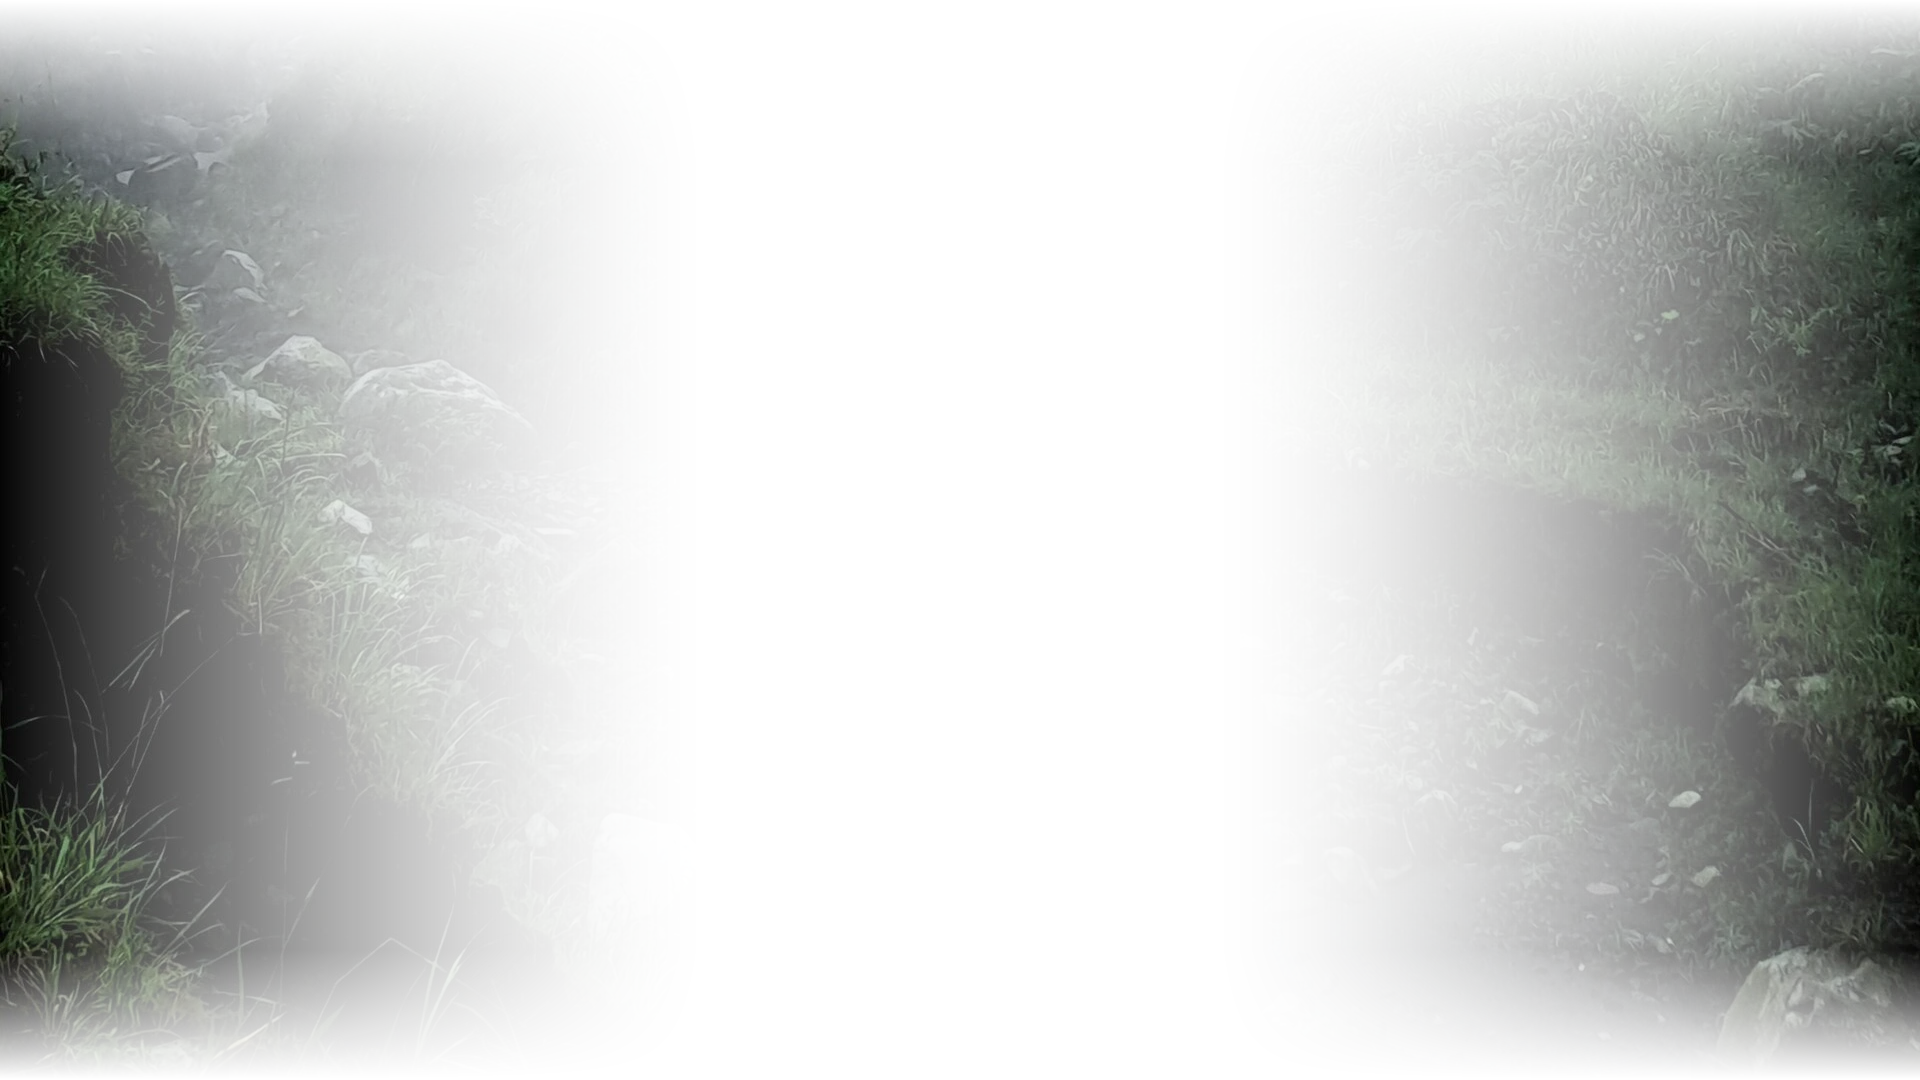
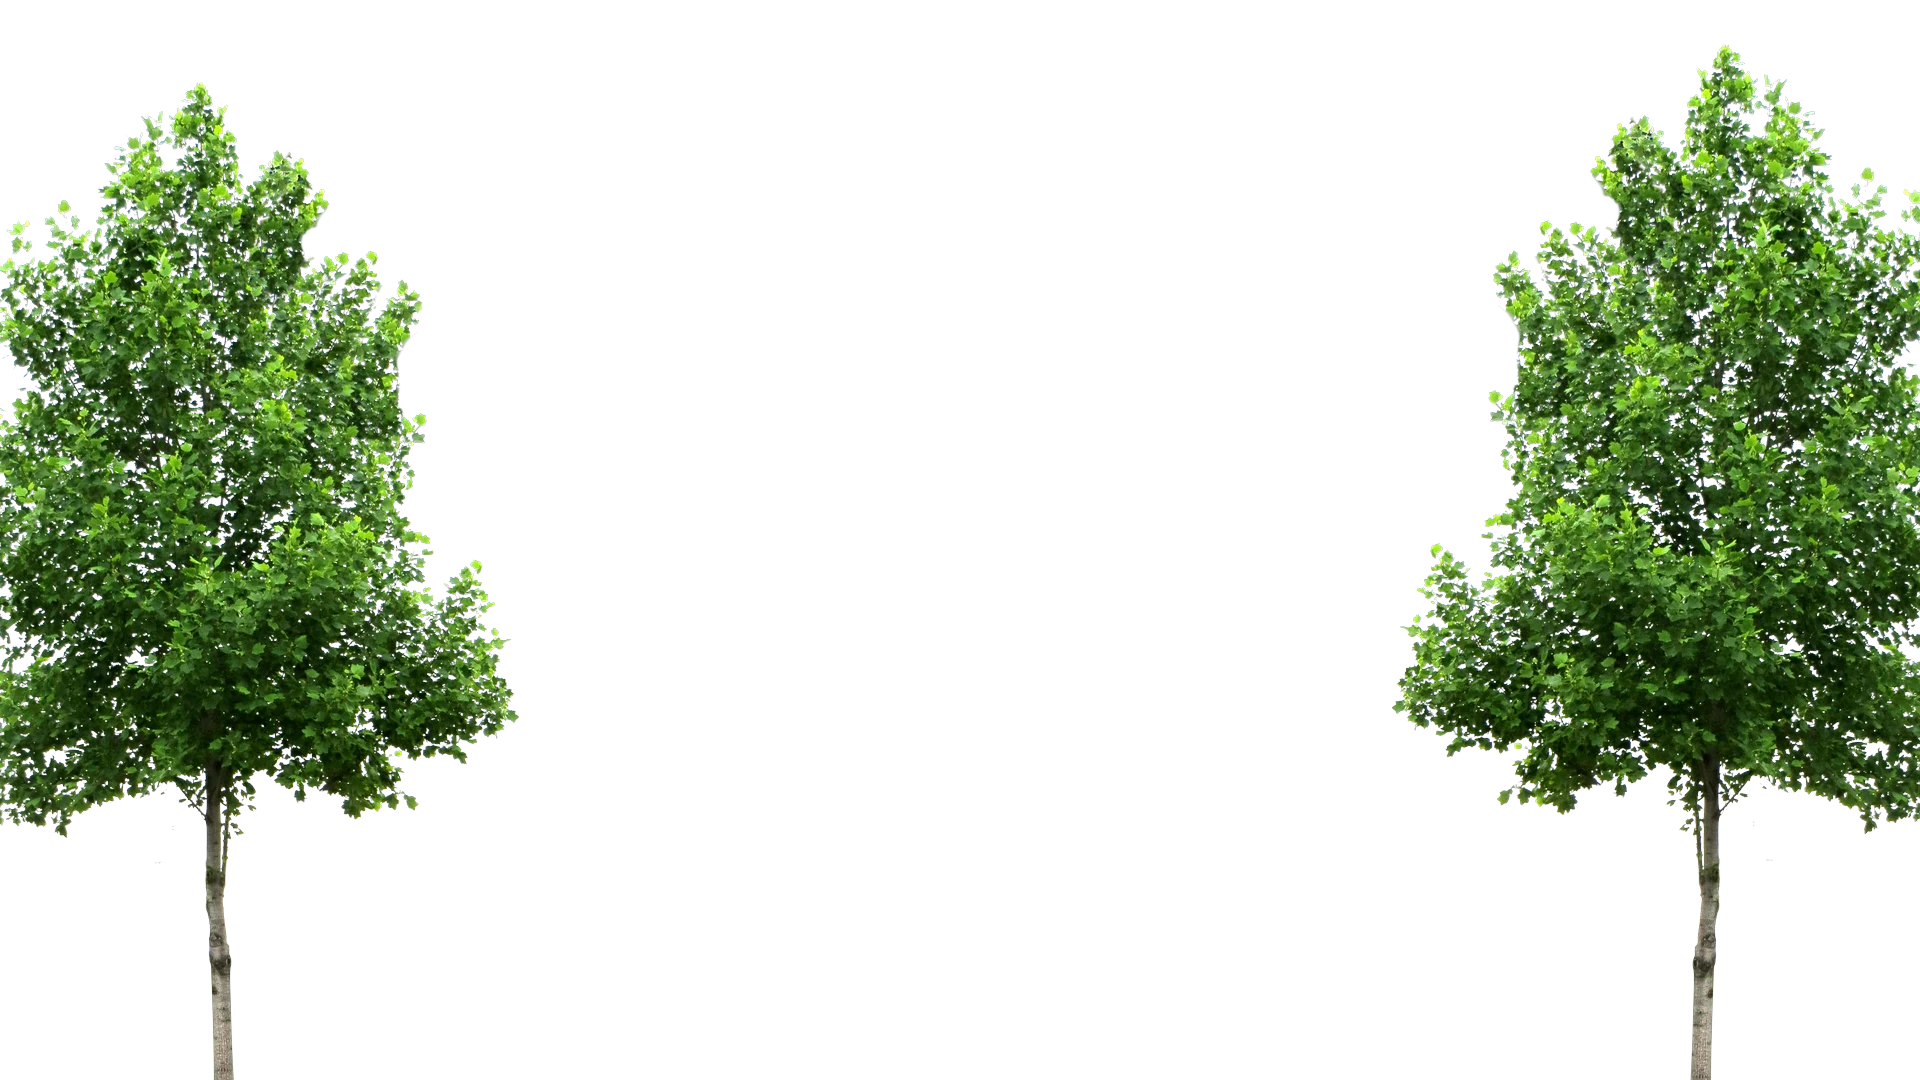
feat(web): optimize Merapi hero parallax scroll and WCAG AAA contrast

diff --git a/apps/web/src/app/_components/hero-section.tsx b/apps/web/src/app/_components/hero-section.tsx
@@ -23,47 +23,49 @@ export function HeroSection() {
   const containerRef = useRef<HTMLElement>(null);
   const shouldReduceMotion = useReducedMotion();
 
-  const { scrollY } = useScroll();
+  const { scrollYProgress } = useScroll({
+    target: containerRef,
+    offset: ['start start', 'end start'],
+  });
 
   /**
    * Layer 1 (Deep Background): Lanskap Gunung Merapi fajar bergerak perlahan.
    * GPU-accelerated translate & scale tanpa layout thrashing.
    */
   const bgY = useTransform(
-    scrollY,
-    [0, 800],
-    [0, shouldReduceMotion ? 0 : 90]
+    scrollYProgress,
+    [0, 1],
+    [0, shouldReduceMotion ? 0 : 130]
   );
   const bgScale = useTransform(
-    scrollY,
-    [0, 800],
-    [1, shouldReduceMotion ? 1 : 1.05]
+    scrollYProgress,
+    [0, 1],
+    [1, shouldReduceMotion ? 1 : 1.08]
   );
 
   /**
-   * Layer 2 (Foreground Overlay): Siluet kanopi hutan lereng kiri-kanan bergerak lebih cepat,
+   * Layer 2 (Foreground Overlay): Siluet kanopi pohon tropis lereng kiri-kanan bergerak lebih cepat,
    * menciptakan efek ilusi optik kedalaman ngarai/lembah sejati saat pengguna menggulir halaman.
    */
   const overlayY = useTransform(
-    scrollY,
-    [0, 800],
-    [0, shouldReduceMotion ? 0 : 170]
+    scrollYProgress,
+    [0, 1],
+    [0, shouldReduceMotion ? 0 : 270]
   );
   const overlayScale = useTransform(
-    scrollY,
-    [0, 800],
-    [1, shouldReduceMotion ? 1 : 1.08]
+    scrollYProgress,
+    [0, 1],
+    [1, shouldReduceMotion ? 1 : 1.15]
   );
 
   /**
    * Layer 3 (Content Layer): Tipografi teks dan aksi mengambang dengan counter-parallax lembut.
    */
   const textY = useTransform(
-    scrollY,
-    [0, 600],
-    [0, shouldReduceMotion ? 0 : -35]
+    scrollYProgress,
+    [0, 1],
+    [0, shouldReduceMotion ? 0 : 65]
   );
-
   const handleScrollToKomoditas = (e: React.MouseEvent) => {
     const el = document.getElementById('komoditas');
     if (el) {
@@ -87,11 +89,11 @@ export function HeroSection() {
       >
         <Image
           src="/images/hero/hero-merapi-bg.webp"
-          alt="Lanskap Fajar Gunung Merapi dan Lembah Pertanian D.I. Yogyakarta"
+          alt="Lanskap Megah Gunung Merapi dan Perkebunan Sleman D.I. Yogyakarta"
           fill
           priority
           sizes="100vw"
-          className="object-cover object-center opacity-85 contrast-[1.05] saturate-[1.12]"
+          className="object-cover object-top sm:object-center opacity-95 contrast-[1.08] saturate-[1.12]"
         />
       </motion.div>
 
@@ -101,27 +103,22 @@ export function HeroSection() {
       >
         <Image
           src="/images/hero/hero-forest-overlay.webp"
-          alt="Bingkai Kanopi Hutan Tropis Lereng Pegunungan DIY"
+          alt="Bingkai Kanopi Pohon Tropis Lereng Pegunungan Merapi DIY"
           fill
           priority
           sizes="100vw"
-          className="object-cover object-bottom opacity-90 contrast-[1.15]"
+          className="object-cover object-top sm:object-center opacity-95"
         />
       </motion.div>
 
       <div
-        className="absolute inset-0 z-2 pointer-events-none bg-[radial-gradient(ellipse_70%_60%_at_50%_38%,rgba(247,244,238,0.88)_0%,rgba(247,244,238,0.52)_55%,transparent_100%)]"
+        className="absolute inset-0 z-2 pointer-events-none bg-[radial-gradient(ellipse_85%_60%_at_50%_62%,rgba(247,244,238,0.85)_0%,rgba(247,244,238,0.50)_65%,transparent_100%)]"
         aria-hidden="true"
       />
       <div
-        className="absolute top-0 inset-x-0 h-32 z-3 pointer-events-none bg-gradient-to-b from-netral-canvas via-netral-canvas/75 to-transparent"
+        className="absolute bottom-0 inset-x-0 h-36 z-3 pointer-events-none bg-gradient-to-t from-netral-canvas via-netral-canvas/90 to-transparent"
         aria-hidden="true"
       />
-      <div
-        className="absolute bottom-0 inset-x-0 h-44 z-3 pointer-events-none bg-gradient-to-t from-netral-canvas via-netral-canvas/85 to-transparent"
-        aria-hidden="true"
-      />
-
       <div className="relative z-10 max-w-5xl mx-auto px-4 sm:px-6 lg:px-8 text-center">
         <motion.div
           style={{ y: textY }}
@@ -136,12 +133,12 @@ export function HeroSection() {
             <span className="text-gelap/80 font-medium hidden sm:inline">D.I. Yogyakarta</span>
           </div>
 
-          <h1 className="text-4xl sm:text-6xl md:text-7xl font-extrabold text-gelap tracking-tight leading-[1.12] font-heading max-w-4xl mx-auto text-balance">
+          <h1 className="text-4xl sm:text-6xl md:text-7xl font-extrabold text-gelap-surface tracking-tight leading-[1.12] font-heading max-w-4xl mx-auto text-balance drop-shadow-[0_1px_1px_rgba(255,255,255,0.85)]">
             Digitalisasi Rantai Pasok Pangan,{' '}
-            <span className="text-primer">One-Stop Supplier Pangan DIY.</span>
+            <span className="text-primer-deep">One-Stop Supplier Pangan DIY.</span>
           </h1>
 
-          <p className="mt-5 sm:mt-6 text-base sm:text-lg md:text-xl text-gelap/85 font-body leading-relaxed max-w-2xl mx-auto text-balance">
+          <p className="mt-5 sm:mt-6 text-base sm:text-lg md:text-xl text-gelap-surface/90 font-body leading-relaxed max-w-2xl mx-auto text-balance font-medium drop-shadow-[0_1px_1px_rgba(255,255,255,0.7)]">
             Sistem pengadaan bahan baku dapur restoran, kafe, dan hotel langsung dari ekosistem supplier pangan lokal D.I. Yogyakarta. Pangkas 5 titik rantai pasok tradisional dengan jadwal subuh terjamin, proteksi escrow 100%, dan jaminan mutu QC pangan.
           </p>
 
